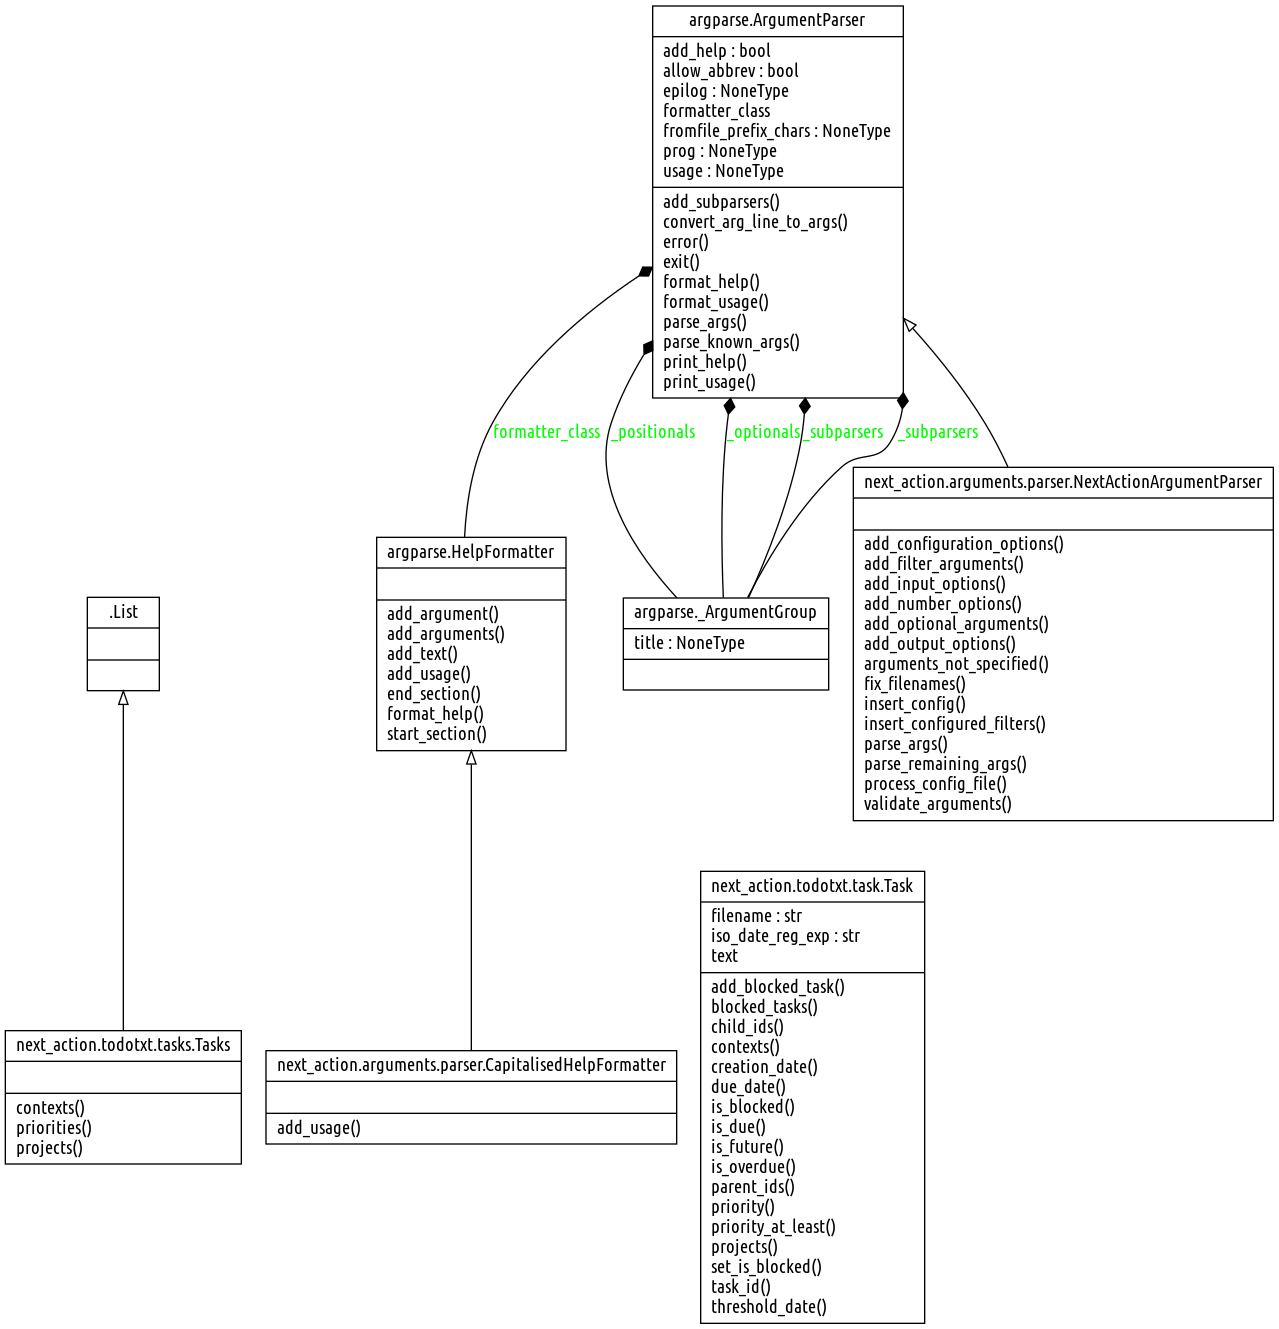
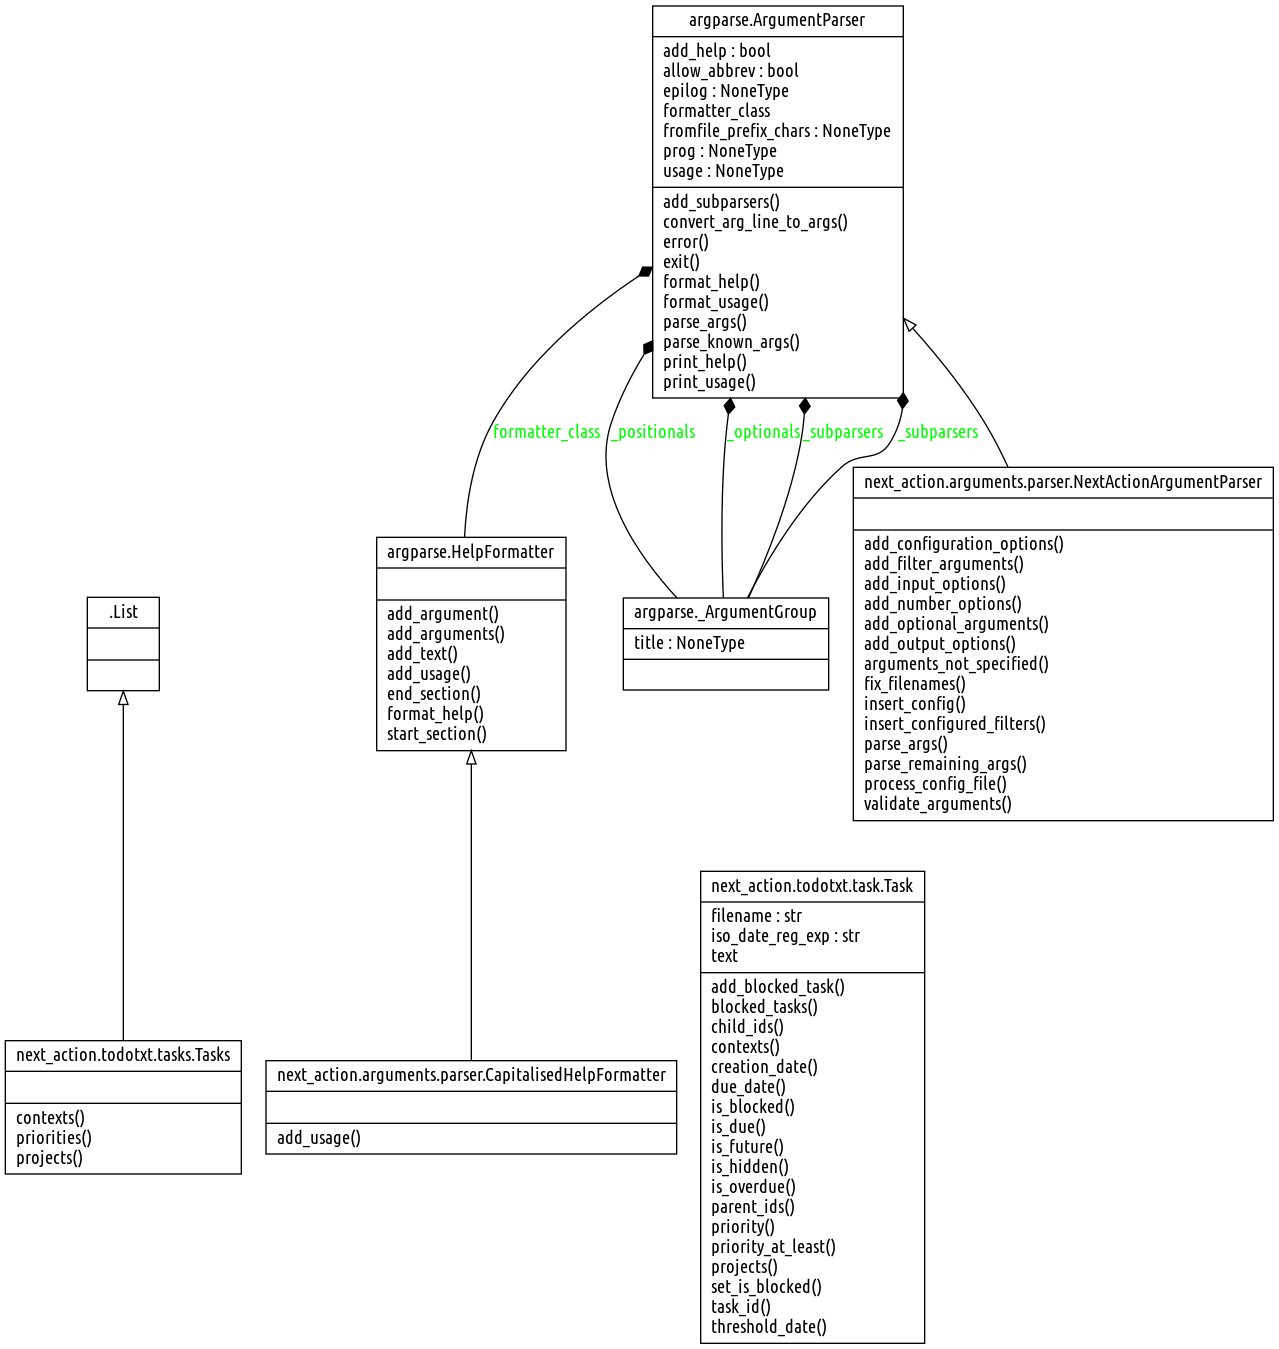
Allow for hiding tasks with h:1. Closes #332. (#334)

diff --git a/next_action/pick_action.py b/next_action/pick_action.py
@@ -21,8 +21,9 @@ def next_actions(tasks: todotxt.Tasks, arguments: argparse.Namespace) -> todotxt
     excluded_contexts = arguments.excluded_contexts
     excluded_projects = arguments.excluded_projects
 
-    # First, get the potential next actions by filtering out tasks with a future creation date or threshold date
-    eligible_tasks = filter(lambda task: not task.is_future(), tasks)
+    # First, get the potential next actions by filtering out hidden tasks and tasks with a future creation date
+    # or threshold date
+    eligible_tasks = filter(lambda task: not task.is_future() and not task.is_hidden(), tasks)
     # Then, exclude tasks that have an excluded context
     if excluded_contexts:
         eligible_tasks = filter(lambda task: not excluded_contexts & task.contexts(), eligible_tasks)

diff --git a/tests/unittests/todotxt/test_task.py b/tests/unittests/todotxt/test_task.py
@@ -413,3 +413,17 @@ class DependenciesTest(unittest.TestCase):
         task1.add_blocked_task(task2)
         task2.add_blocked_task(task1)
         self.assertTrue(task1.is_blocked())
+
+
+class TaskHiddenessTest(unittest.TestCase):
+    """Unit tests for hidden tasks."""
+
+    def test_visible_task(self):
+        """Test that a regular task is not hidden."""
+        task = todotxt.Task("A task")
+        self.assertFalse(task.is_hidden())
+
+    def test_hidden_task(self):
+        """Test that a task with h:1 is hidden."""
+        task = todotxt.Task("A task h:1")
+        self.assertTrue(task.is_hidden())

diff --git a/next_action/todotxt/task.py b/next_action/todotxt/task.py
@@ -23,6 +23,10 @@ class Task:
         """Return a text representation of the task."""
         return f"{self.__class__.__name__}<{self.text}>"
 
+    def is_hidden(self) -> bool:
+        """Return whether the task is hidden."""
+        return "1" in self.__prefixed_items("h:")
+
     @functools.lru_cache(maxsize=None)
     def contexts(self) -> Set[str]:
         """Return the contexts of the task."""

diff --git a/next_action/__init__.py b/next_action/__init__.py
@@ -7,7 +7,7 @@ from .todotxt import read_todotxt_files
 
 
 __title__ = "next-action"
-__version__ = "1.10.0"
+__version__ = "1.11.0"
 
 
 def next_action() -> None:

diff --git a/README.md b/README.md
@@ -145,8 +145,9 @@ Several types of tasks can not be a next action:
 
 - completed tasks (~~`x This is a completed task`~~),
 - tasks with a creation date in the future (`9999-01-01 Start preparing for five-digit years`),
-- tasks with a future threshold date (`Start preparing for emigration to Mars t:3000-01-01`), and
-- blocked tasks (see [task dependencies](#task-dependencies) below).
+- tasks with a future threshold date (`Start preparing for emigration to Mars t:3000-01-01`),
+- blocked tasks (see [task dependencies](#task-dependencies) below), and
+- hidden tasks (`This is a hidden task h:1`).
 
 ### Limiting the tasks from which next actions are selected
 
@@ -574,13 +575,13 @@ Starting next-action_unittest_1 ...
 Starting next-action_unittest_1 ... done
 Attaching to next-action_unittest_1
 unittest_1                | ----------------------------------------------------------------------
-unittest_1                | Ran 256 tests in 1.571s
+unittest_1                | Ran 258 tests in 1.750s
 unittest_1                |
 unittest_1                | OK
 unittest_1                | Name    Stmts   Miss Branch BrPart  Cover
 unittest_1                | -----------------------------------------
 unittest_1                | -----------------------------------------
-unittest_1                | TOTAL    1659      0    244      0   100%
+unittest_1                | TOTAL    1668      0    244      0   100%
 unittest_1                |
 unittest_1                | 29 files skipped due to complete coverage.
 next-action_unittest_1 exited with code 0
@@ -598,13 +599,13 @@ Starting next-action_behave_1 ...
 Starting next-action_behave_1 ... done
 Attaching to next-action_behave_1
 behave_1                  | 16 features passed, 0 failed, 0 skipped
-behave_1                  | 114 scenarios passed, 0 failed, 0 skipped
-behave_1                  | 376 steps passed, 0 failed, 0 skipped, 0 undefined
-behave_1                  | Took 1m35.558s
+behave_1                  | 115 scenarios passed, 0 failed, 0 skipped
+behave_1                  | 379 steps passed, 0 failed, 0 skipped, 0 undefined
+behave_1                  | Took 1m34.062s
 behave_1                  | Name    Stmts   Miss Branch BrPart  Cover
 behave_1                  | -----------------------------------------
 behave_1                  | -----------------------------------------
-behave_1                  | TOTAL     498      0    226      0   100%
+behave_1                  | TOTAL     500      0    226      0   100%
 behave_1                  |
 behave_1                  | 12 files skipped due to complete coverage.
 next-action_behave_1 exited with code 0
@@ -628,8 +629,8 @@ Starting next-action_quality_1 ... done
 Attaching to next-action_quality_1
 quality_1                 | Generated HTML report (via XSLT): /Users/fniessink/workspace/next-action/build/mypy/index.html
 quality_1                 |
-quality_1                 | --------------------------------------------------------------------
-quality_1                 | Your code has been rated at 10.00/10 (previous run: 10.00/10, +0.00)
+quality_1                 | -------------------------------------------------------------------
+quality_1                 | Your code has been rated at 10.00/10 (previous run: 9.99/10, +0.01)
 quality_1                 |
 quality_1                 | ------------------------------
 quality_1                 | Checking .

diff --git a/docs/README.in.md b/docs/README.in.md
@@ -125,8 +125,9 @@ Several types of tasks can not be a next action:
 
 - completed tasks (~~`x This is a completed task`~~),
 - tasks with a creation date in the future (`9999-01-01 Start preparing for five-digit years`),
-- tasks with a future threshold date (`Start preparing for emigration to Mars t:3000-01-01`), and
-- blocked tasks (see [task dependencies](#task-dependencies) below).
+- tasks with a future threshold date (`Start preparing for emigration to Mars t:3000-01-01`),
+- blocked tasks (see [task dependencies](#task-dependencies) below), and
+- hidden tasks (`This is a hidden task h:1`).
 
 ### Limiting the tasks from which next actions are selected
 

diff --git a/CHANGELOG.md b/CHANGELOG.md
@@ -5,6 +5,12 @@ All notable changes to this project will be documented in this file.
 The format is based on [Keep a Changelog](http://keepachangelog.com/en/1.0.0/)
 and this project adheres to [Semantic Versioning](http://semver.org/spec/v2.0.0.html).
 
+## [1.11.0] - 2018-11-14
+
+### Added
+
+- Allow for hiding tasks with `h:1`. Closes #332.
+
 ## [1.10.0] - 2018-11-14
 
 ### Added
